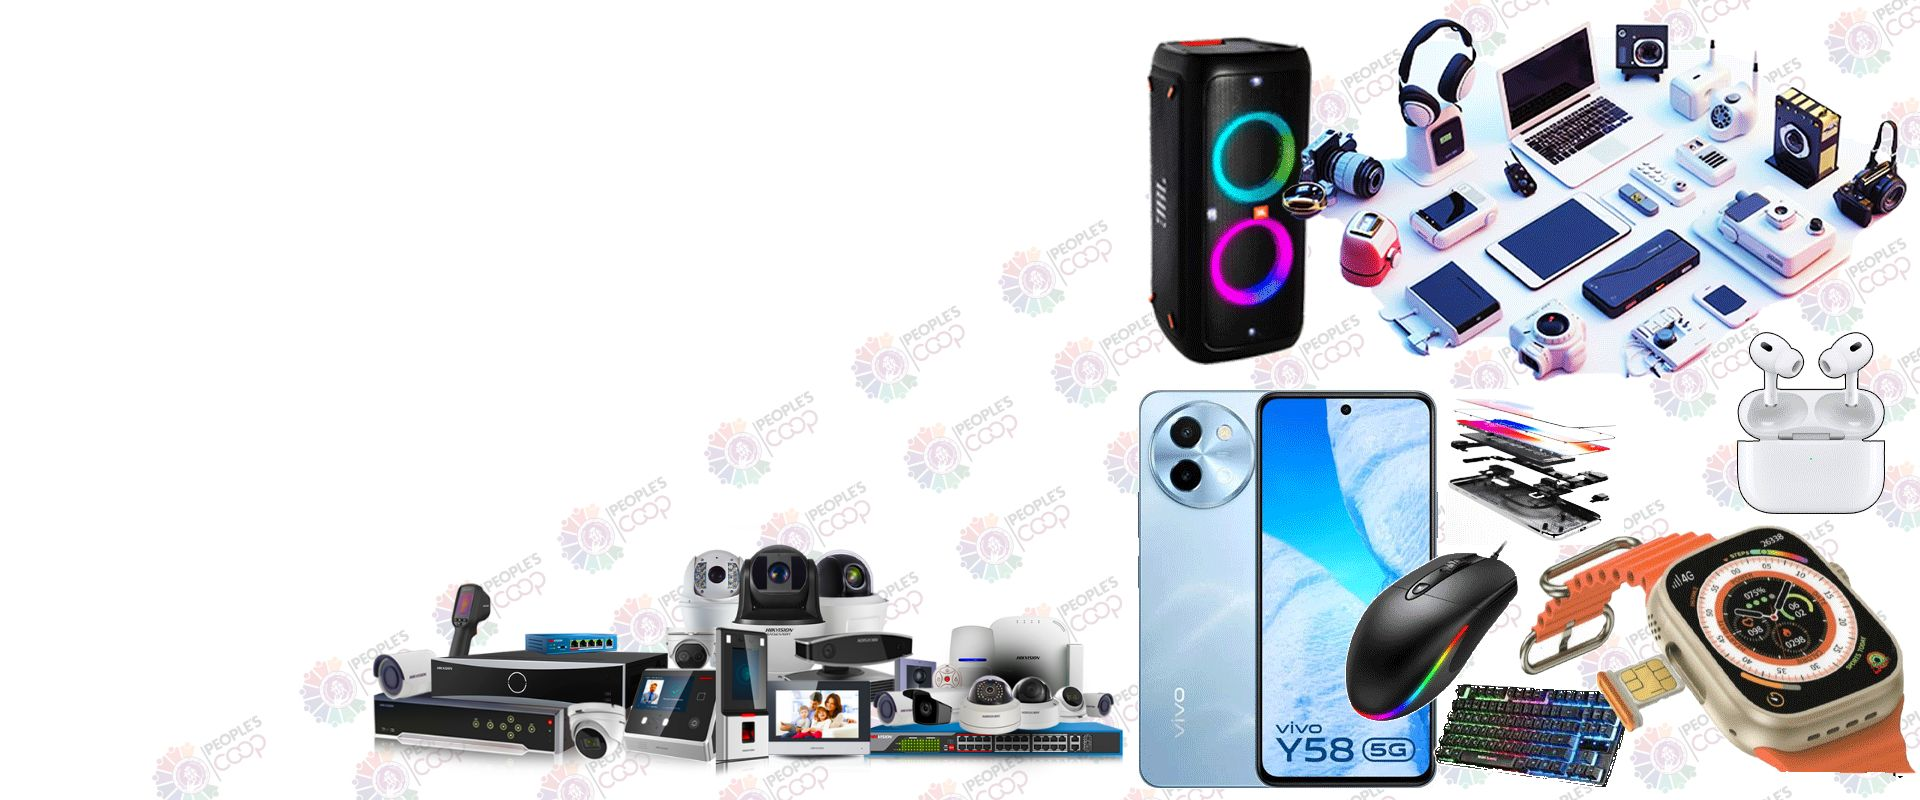
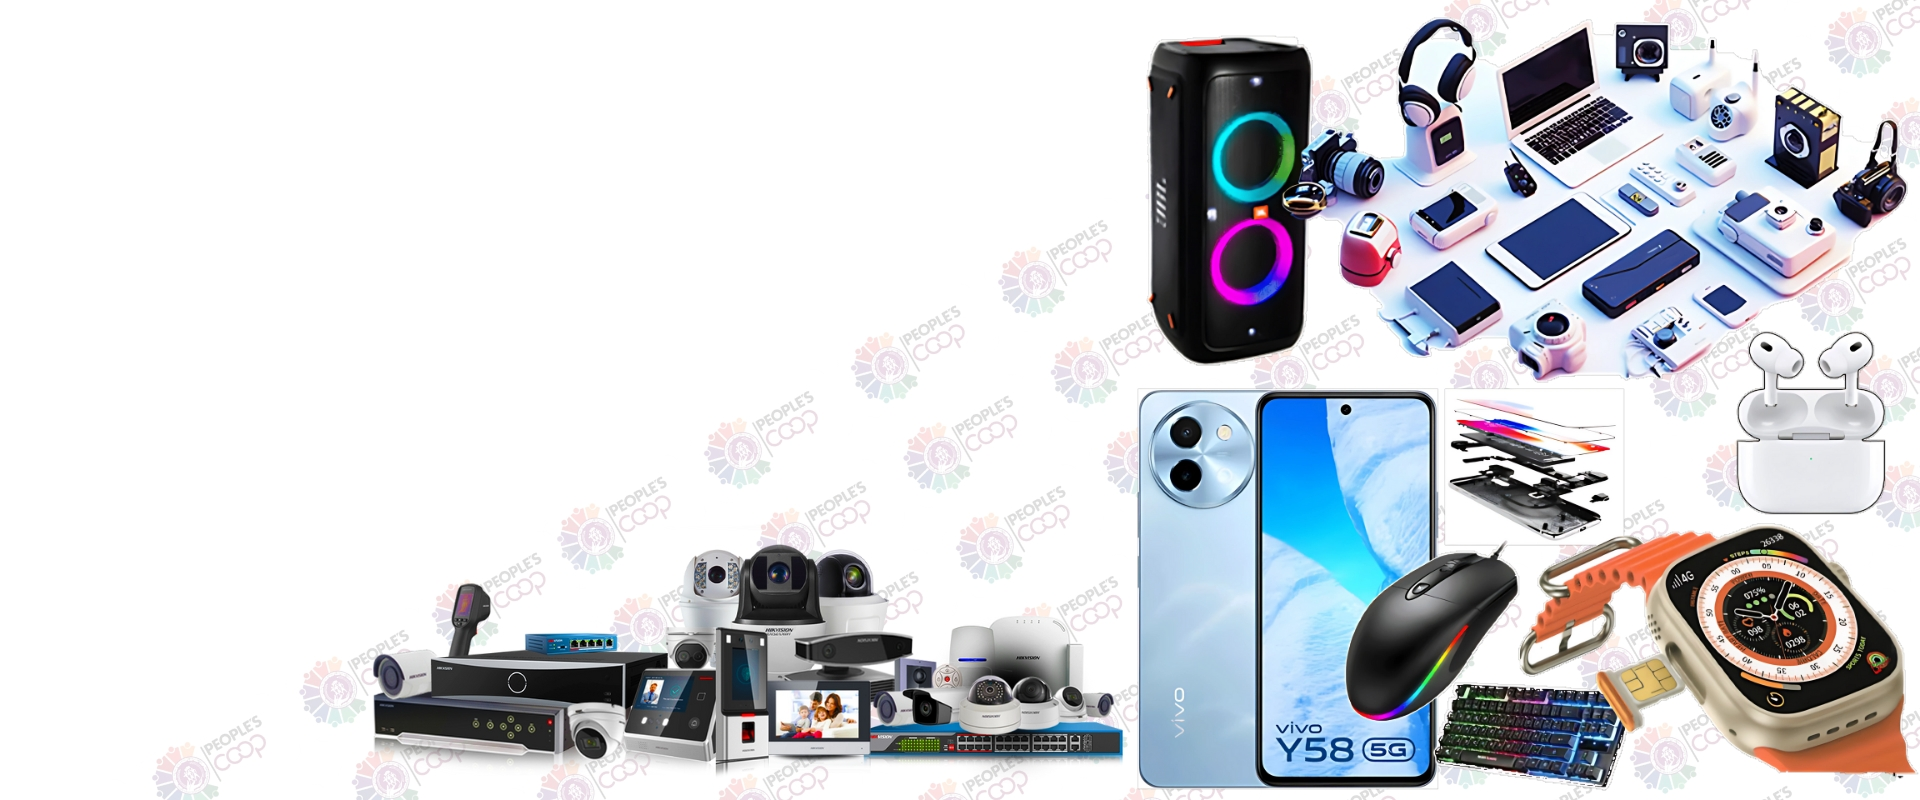
caroucel updated

diff --git a/peoples - coop - frond-end/index.html b/peoples - coop - frond-end/index.html
@@ -2359,14 +2359,34 @@
                 <div
                   class="col-xl-6 col-lg-7 col-md-7 col-sm-7 align-self-center"
                 >
-                  <div class="ec-slide-content slider-animation">
-                    <h1 class="ec-slide-title">Find Your Perfect Pair</h1>
-                    <h2 class="ec-slide-stitle">Step into style</h2>
-                    <p>
-                      From casual days to formal nights, we've got you covered
-                    </p>
-                    <a href="#" class="btn btn-lg btn-secondary">Order Now</a>
-                  </div>
+                <div class="ec-slide-content slider-animation">
+                  <h1 class="ec-slide-title">Power Your World</h1>
+                  <h2 class="ec-slide-stitle">Elevate Your Tech Experience</h2>
+                  <p>
+                    Upgrade your world. Explore our range of cutting-edge gadgets, from smartphones to smart home devices.
+                  </p>
+                  <a href="#" class="btn btn-lg btn-secondary">Shop Now</a>
+              </div>
+                </div>
+              </div>
+            </div>
+          </div>
+
+
+          <div class="ec-slide-item swiper-slide d-flex ec-slide-5">
+            <div class="container align-self-center">
+              <div class="row">
+                <div
+                  class="col-xl-6 col-lg-7 col-md-7 col-sm-7 align-self-center"
+                >
+                <div class="ec-slide-content slider-animation">
+                  <h1 class="ec-slide-title">Pure Sound</h1>
+                  <h2 class="ec-slide-stitle">Feel the Music</h2>
+                  <p>
+                    From powerful headphones to booming speakers, JBL delivers exceptional sound quality for every occasion.  
+                  </p>
+                  <a href="#" class="btn btn-lg btn-secondary">Shop Now</a>
+              </div>
                 </div>
               </div>
             </div>

diff --git a/Front/assets/css/demo1.css b/Front/assets/css/demo1.css
@@ -19586,14 +19586,14 @@ body.ec-open:before {
 }
 
 .ec-slide-3 {
-  background-image: url("../images/main-slider-banner/3.jpg");
+  background-image: url("../images/../images/main-slider-banner/3.jpg");
   background-repeat: no-repeat;
   background-size: cover;
   background-position: center;
 }
 
 .ec-slide-4 {
-  background-image: url("../images/main-slider-banner/3.jpg");
+  background-image: url("../images/../images/main-slider-banner/3.jpg");
   background-repeat: no-repeat;
   background-size: cover;
   background-position: center;

diff --git a/peoples - coop - frond-end/assets/css/demo1.css b/peoples - coop - frond-end/assets/css/demo1.css
@@ -19592,6 +19592,20 @@ body.ec-open:before {
   background-position: center;
 }
 
+.ec-slide-4 {
+  background-image: url("../images/main-slider-banner/4.jpg");
+  background-repeat: no-repeat;
+  background-size: cover;
+  background-position: center;
+}
+
+.ec-slide-5 {
+  background-image: url("../images/main-slider-banner/5.jpg");
+  background-repeat: no-repeat;
+  background-size: cover;
+  background-position: center;
+}
+
 /*----  Main Slider Style  ----*/
 .ec-main-slider .container {
   position: absolute;

diff --git a/Front/assets/css/dark.css b/Front/assets/css/dark.css
@@ -19436,7 +19436,7 @@ body.ec-open:before {
 }
 
 .ec-slide-3 {
-  background-image: url("../images/main-slider-banner/3.jpg");
+  background-image: url("../images/../images/main-slider-banner/3.jpg");
   background-repeat: no-repeat;
   background-size: cover;
   background-position: center;

diff --git a/Front/assets/css/skin-01.css b/Front/assets/css/skin-01.css
@@ -19436,7 +19436,7 @@ body.ec-open:before {
 }
 
 .ec-slide-3 {
-  background-image: url("../images/main-slider-banner/3.jpg");
+  background-image: url("../images/../images/main-slider-banner/3.jpg");
   background-repeat: no-repeat;
   background-size: cover;
   background-position: center;

diff --git a/Front/assets/css/skin-02.css b/Front/assets/css/skin-02.css
@@ -19438,7 +19438,7 @@ body.ec-open:before {
 }
 
 .ec-slide-3 {
-  background-image: url("../images/main-slider-banner/3.jpg");
+  background-image: url("../images/../images/main-slider-banner/3.jpg");
   background-repeat: no-repeat;
   background-size: cover;
   background-position: center;

diff --git a/Front/assets/css/skin-03.css b/Front/assets/css/skin-03.css
@@ -19436,7 +19436,7 @@ body.ec-open:before {
 }
 
 .ec-slide-3 {
-  background-image: url("../images/main-slider-banner/3.jpg");
+  background-image: url("../images/../images/main-slider-banner/3.jpg");
   background-repeat: no-repeat;
   background-size: cover;
   background-position: center;

diff --git a/Front/assets/css/skin-04.css b/Front/assets/css/skin-04.css
@@ -19436,7 +19436,7 @@ body.ec-open:before {
 }
 
 .ec-slide-3 {
-  background-image: url("../images/main-slider-banner/3.jpg");
+  background-image: url("../images/../images/main-slider-banner/3.jpg");
   background-repeat: no-repeat;
   background-size: cover;
   background-position: center;

diff --git a/Front/assets/css/skin-05.css b/Front/assets/css/skin-05.css
@@ -19442,7 +19442,7 @@ body.ec-open:before {
 }
 
 .ec-slide-3 {
-  background-image: url("../images/main-slider-banner/3.jpg");
+  background-image: url("../images/../images/main-slider-banner/3.jpg");
   background-repeat: no-repeat;
   background-size: cover;
   background-position: center;

diff --git a/peoples - coop - frond-end/assets/css/dark.css b/peoples - coop - frond-end/assets/css/dark.css
@@ -19436,7 +19436,7 @@ body.ec-open:before {
 }
 
 .ec-slide-3 {
-  background-image: url("../images/main-slider-banner/3.jpg");
+  background-image: url("../images/../images/main-slider-banner/3.jpg");
   background-repeat: no-repeat;
   background-size: cover;
   background-position: center;

diff --git a/peoples - coop - frond-end/assets/css/skin-02.css b/peoples - coop - frond-end/assets/css/skin-02.css
@@ -19438,7 +19438,7 @@ body.ec-open:before {
 }
 
 .ec-slide-3 {
-  background-image: url("../images/main-slider-banner/3.jpg");
+  background-image: url("../images/../images/main-slider-banner/3.jpg");
   background-repeat: no-repeat;
   background-size: cover;
   background-position: center;

diff --git a/peoples - coop - frond-end/assets/css/skin-03.css b/peoples - coop - frond-end/assets/css/skin-03.css
@@ -19436,7 +19436,7 @@ body.ec-open:before {
 }
 
 .ec-slide-3 {
-  background-image: url("../images/main-slider-banner/3.jpg");
+  background-image: url("../images/../images/main-slider-banner/3.jpg");
   background-repeat: no-repeat;
   background-size: cover;
   background-position: center;
